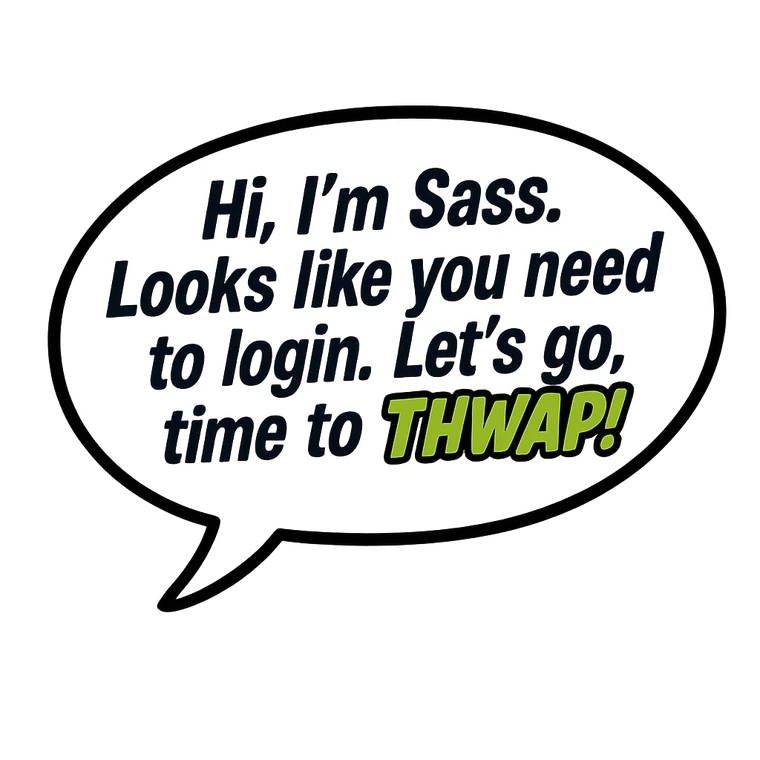
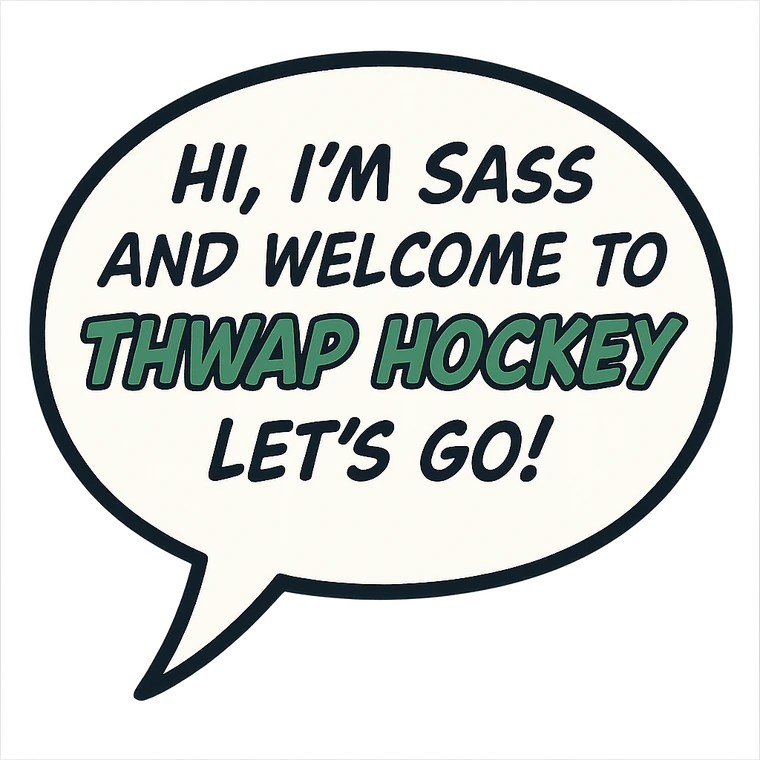
wip: tap Sass to start splash + new bubble text (Thwap Hockey in wordmark green)

Changed region(s): [[0.0303, 0.0605, 0.9684, 0.9382], [0.9987, 0.0, 1.0, 1.0]]

diff --git a/index.html b/index.html
@@ -569,6 +569,7 @@ body.login-locked{overflow:hidden}
    (positioned as a % of this group below) stays glued to Sass and they never drift
    apart when the window resizes within a breakpoint. */
 .sp-welcome{position:absolute;left:3vw;bottom:7%;width:clamp(210px,46vmin,420px);height:clamp(210px,46vmin,420px);pointer-events:none}
+#loginStage[data-step='welcome'] .sp-welcome{pointer-events:auto;cursor:pointer}
 .sp-sass{position:absolute;inset:0;width:100%;height:100%;object-fit:contain;object-position:bottom center;opacity:0;filter:drop-shadow(0 14px 22px rgba(0,0,0,.32));will-change:transform,opacity;-webkit-user-drag:none}
 .sp-sass-welcome{transform:translateY(8px) scale(.96);transition:opacity .3s ease,transform .5s ease}
 #loginStage[data-step='welcome'] .sp-sass-welcome{opacity:1;transform:translateY(0) scale(1)}
@@ -658,7 +659,7 @@ body.login-locked{overflow:hidden}
     <div class='sp-speed'><i></i><i></i><i></i><i></i></div>
     <div class='sp-welcome'>
       <img class='sp-sass sp-sass-welcome' src='login/sass-welcome.webp' alt=''>
-      <img class='sp-bubble-img' src='login/bubble.webp' alt='Hi, I am Sass. Looks like you need to login. Time to THWAP!'>
+      <img class='sp-bubble-img' src='login/bubble.webp' alt='Hi, I am Sass and welcome to Thwap Hockey. Let us go!'>
     </div>
     <div class='sp-skater'>
       <img class='sp-frame sp-frame-a' src='login/sass-stride-a.webp' alt=''>
@@ -3021,18 +3022,25 @@ function stopSplash(settled){
   overlay.classList.remove('is-playing');
   setStep(settled?'ready':'idle');
 }
+/* run -> impact -> modal. Fired automatically after the welcome delay, or early
+   when the player taps Sass (which bypasses the remaining delay). */
+function playRun(){
+  if(!stageEl || stageEl.getAttribute('data-step')!=='welcome') return;
+  clearSplash();
+  setStep('run');
+  splashTimers.push(setTimeout(function(){
+    setStep('impact');
+    if(stageEl){ stageEl.classList.add('shake'); setTimeout(function(){ stageEl.classList.remove('shake'); },420); }
+  },1500));
+  splashTimers.push(setTimeout(function(){ showSignin(); },2250));
+}
 function startSplash(){
   if(!stageEl){ showSignin(); return; }
   clearSplash();
   overlay.classList.add('is-playing');
   if(form) form.hidden=true; if(waitForm) waitForm.hidden=true;
   setStep('welcome');
-  splashTimers.push(setTimeout(function(){ setStep('run'); },4600));
-  splashTimers.push(setTimeout(function(){
-    setStep('impact');
-    if(stageEl){ stageEl.classList.add('shake'); setTimeout(function(){ stageEl.classList.remove('shake'); },420); }
-  },6100));
-  splashTimers.push(setTimeout(function(){ showSignin(); },6850));
+  splashTimers.push(setTimeout(playRun,4600));
 }
 function maybeSplash(){
   if(reduceMotion()){ showSignin(); return; }
@@ -3040,6 +3048,8 @@ function maybeSplash(){
 }
 (function(){
   document.addEventListener('keydown',function(e){ if(e.key==='Escape' && overlay.classList.contains('is-playing')) showSignin(); });
+  /* tap Sass during the welcome pause to start the skate right away */
+  var welcomeGroup=document.querySelector('.sp-welcome'); if(welcomeGroup) welcomeGroup.addEventListener('click',function(){ if(overlay.classList.contains('is-playing')) playRun(); });
 })();
 function signIn(player,email,keep){
   var rec={pid:player.pid,name:player.name,email:String(email||'').trim(),year:SEASON_YEAR,ts:Date.now()};
